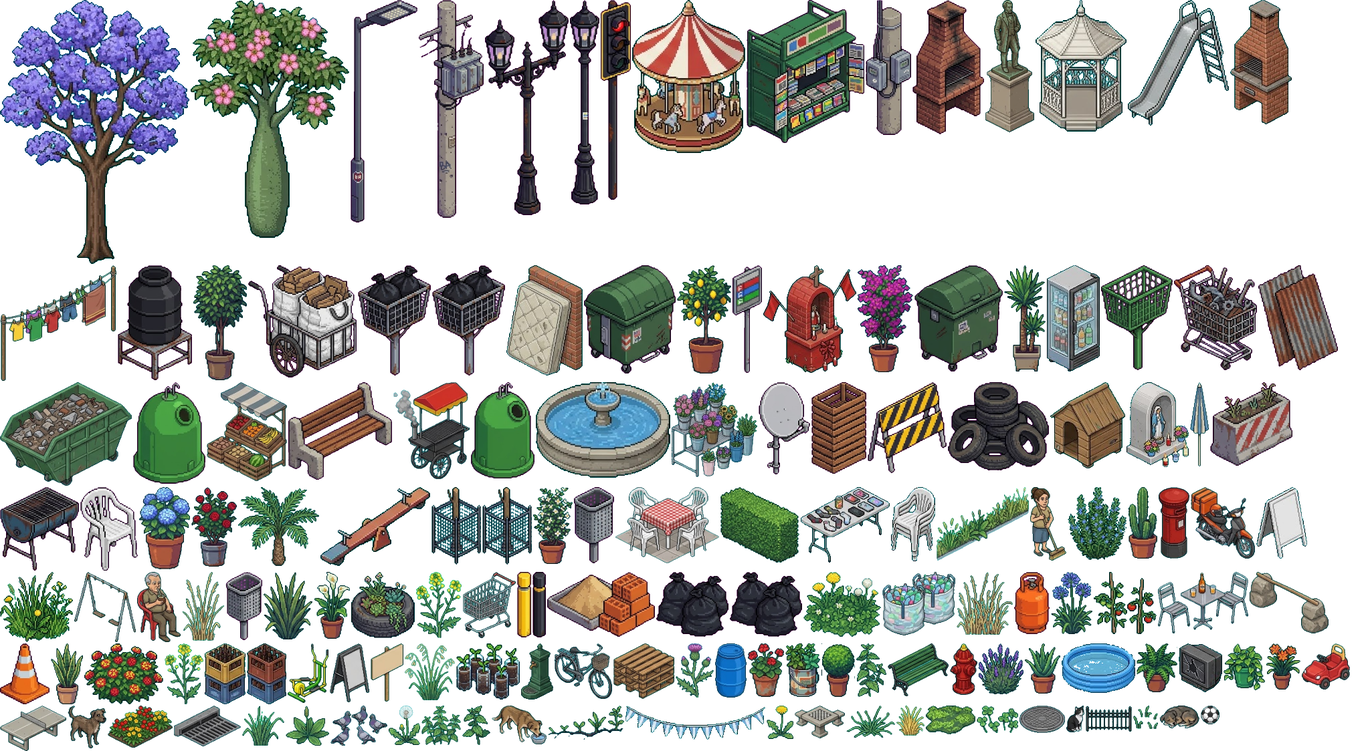
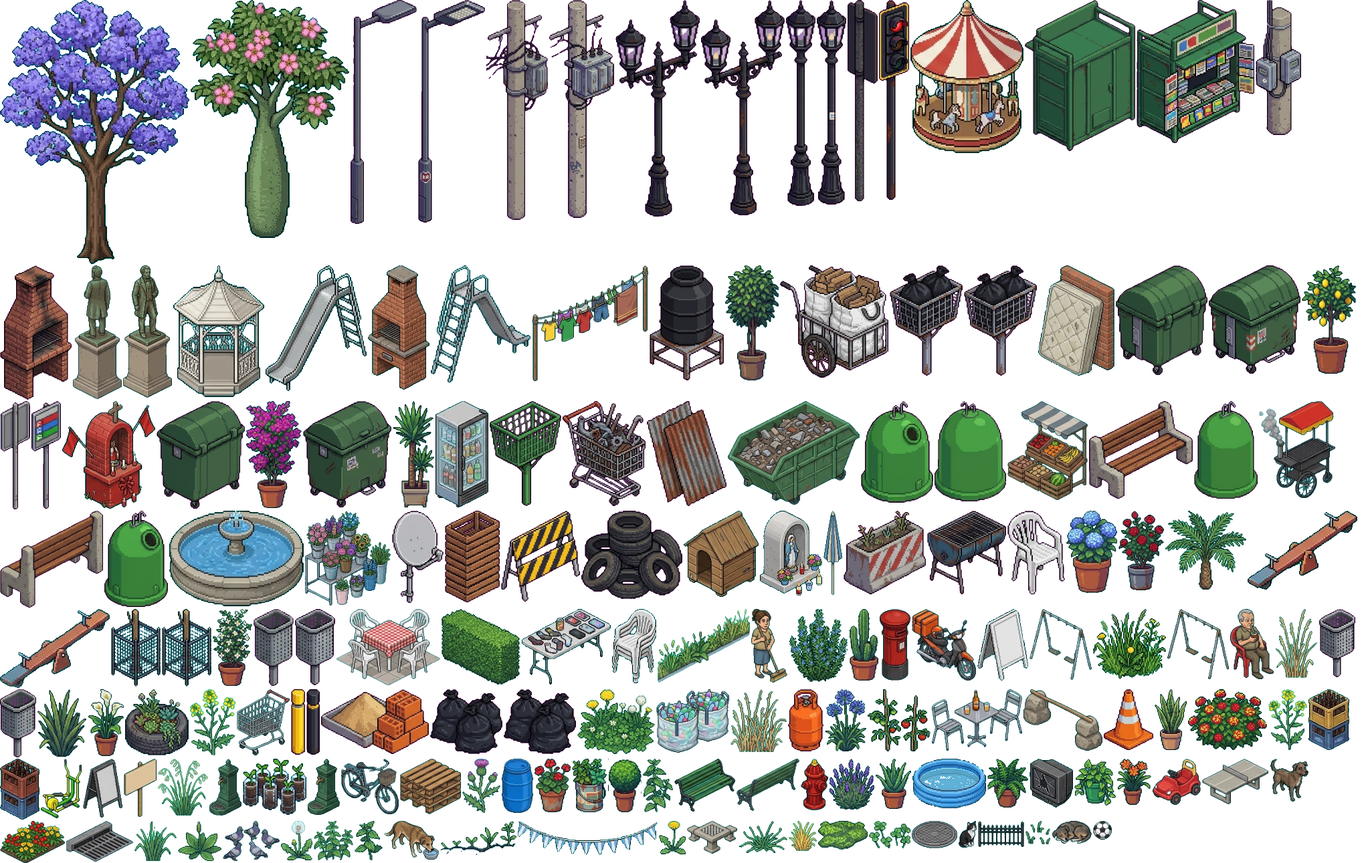
Vistas de atrás de Gemini: mobiliario, postes y plaza girados 180°
Gemini redibujó las tres hojas con cada objeto de espaldas (bancos,
contenedores, campanas, cestos, kiosco, parada, farolas, poste con
transformador, semáforo, monumento, hamacas, tobogán, subibaja, bebedero).
Se recortan y achican 2x como las de frente; hd.json las nombra <nombre>_atras.

Claude-Session: https://claude.ai/code/session_015eL21ADLwrYXVptdMb8b8s

diff --git a/editor/recursos/hd_props.js b/editor/recursos/hd_props.js
@@ -1,2 +1,2 @@
 // props HD (Gemini, limpiados a 30 px/m con herramientas/pixelar.py; armado con herramientas/armar_hd.py)
-const HD_ASSETS = {"escala": 0.6, "frames": {"antena": {"x": 1134, "y": 572, "w": 77, "h": 138, "ox": 38, "oy": 132, "e": 0.173}, "b_arco": {"x": 1868, "y": 856, "w": 118, "h": 92, "ox": 59, "oy": 87, "e": 0.3706}, "b_autito": {"x": 1946, "y": 963, "w": 72, "h": 69, "ox": 36, "oy": 64, "e": 0.3706}, "b_bolsones": {"x": 1319, "y": 856, "w": 109, "h": 95, "ox": 54, "oy": 90, "e": 0.3706}, "b_cartel_vende": {"x": 554, "y": 963, "w": 49, "h": 87, "ox": 24, "oy": 82, "e": 0.3706}, "b_chango_vacio": {"x": 692, "y": 856, "w": 79, "h": 99, "ox": 39, "oy": 94, "e": 0.3706}, "b_jaula": {"x": 721, "y": 729, "w": 74, "h": 116, "ox": 37, "oy": 107, "e": 0.2672}, "b_mesa_patio": {"x": 920, "y": 729, "w": 155, "h": 114, "ox": 77, "oy": 109, "e": 0.3706}, "b_mujer_barre": {"x": 1540, "y": 729, "w": 54, "h": 110, "ox": 27, "oy": 105, "e": 0.3706}, "b_pallets": {"x": 917, "y": 963, "w": 91, "h": 83, "ox": 45, "oy": 78, "e": 0.3706}, "b_pelota": {"x": 1795, "y": 1056, "w": 28, "h": 28, "ox": 14, "oy": 23, "e": 0.3706}, "b_perro_bebe": {"x": 735, "y": 1056, "w": 82, "h": 58, "ox": 41, "oy": 53, "e": 0.3706}, "b_sombrilla": {"x": 1779, "y": 572, "w": 28, "h": 126, "ox": 14, "oy": 121, "e": 0.3706}, "b_tacho_azul": {"x": 1069, "y": 963, "w": 47, "h": 81, "ox": 23, "oy": 76, "e": 0.3706}, "b_tendedero": {"x": 0, "y": 397, "w": 174, "h": 173, "ox": 87, "oy": 168, "e": 0.3706}, "b_viejo_mate": {"x": 205, "y": 856, "w": 65, "h": 105, "ox": 32, "oy": 100, "e": 0.3706}, "bolsas_0": {"x": 981, "y": 856, "w": 108, "h": 97, "ox": 54, "oy": 88, "e": 0.1635}, "bolsas_1": {"x": 1091, "y": 856, "w": 108, "h": 97, "ox": 54, "oy": 88, "e": 0.1635}, "c_bici": {"x": 829, "y": 963, "w": 86, "h": 83, "ox": 43, "oy": 79, "e": 0.4173}, "c_buzon": {"x": 1732, "y": 729, "w": 46, "h": 107, "ox": 23, "oy": 103, "e": 0.4173}, "c_chori": {"x": 588, "y": 572, "w": 114, "h": 145, "ox": 57, "oy": 141, "e": 0.4173}, "c_gato": {"x": 1594, "y": 1056, "w": 27, "h": 40, "ox": 13, "oy": 36, "e": 0.4173}, "c_hidrante": {"x": 1420, "y": 963, "w": 41, "h": 77, "ox": 20, "oy": 73, "e": 0.4173}, "c_mesa_bar": {"x": 1731, "y": 856, "w": 135, "h": 92, "ox": 67, "oy": 88, "e": 0.4173}, "c_moto": {"x": 1780, "y": 729, "w": 96, "h": 107, "ox": 48, "oy": 103, "e": 0.4173}, "c_palomas": {"x": 494, "y": 1056, "w": 85, "h": 60, "ox": 42, "oy": 56, "e": 0.4173}, "c_perro": {"x": 101, "y": 1056, "w": 58, "h": 64, "ox": 29, "oy": 60, "e": 0.4173}, "c_perro_duerme": {"x": 1733, "y": 1056, "w": 60, "h": 34, "ox": 30, "oy": 30, "e": 0.4173}, "c_puesto_flores": {"x": 1004, "y": 572, "w": 128, "h": 142, "ox": 64, "oy": 138, "e": 0.4173}, "c_puesto_frutas": {"x": 309, "y": 572, "w": 120, "h": 148, "ox": 60, "oy": 144, "e": 0.4173}, "c_rejilla": {"x": 260, "y": 1056, "w": 100, "h": 61, "ox": 50, "oy": 57, "e": 0.4173}, "c_tapa": {"x": 1524, "y": 1056, "w": 68, "h": 41, "ox": 34, "oy": 37, "e": 0.4173}, "c_volquete": {"x": 0, "y": 572, "w": 197, "h": 155, "ox": 98, "oy": 151, "e": 0.4173}, "cajones": {"x": 1213, "y": 572, "w": 82, "h": 137, "ox": 41, "oy": 126, "e": 0.173}, "canasto_0": {"x": 535, "y": 397, "w": 109, "h": 165, "ox": 54, "oy": 147, "e": 0.1635}, "canasto_1": {"x": 1646, "y": 397, "w": 107, "h": 157, "ox": 53, "oy": 139, "e": 0.1635}, "canasto_2": {"x": 646, "y": 397, "w": 109, "h": 165, "ox": 54, "oy": 147, "e": 0.1635}, "carro_cartonero": {"x": 371, "y": 397, "w": 162, "h": 168, "ox": 81, "oy": 159, "e": 0.173}, "chango": {"x": 1755, "y": 397, "w": 124, "h": 157, "ox": 62, "oy": 133, "e": 0.173}, "chapas": {"x": 1881, "y": 397, "w": 119, "h": 157, "ox": 59, "oy": 146, "e": 0.173}, "garrafa": {"x": 1516, "y": 856, "w": 53, "h": 93, "ox": 26, "oy": 84, "e": 0.173}, "gomas": {"x": 1417, "y": 572, "w": 151, "h": 132, "ox": 75, "oy": 105, "e": 0.173}, "k_banderines": {"x": 935, "y": 1056, "w": 209, "h": 51, "ox": 104, "oy": 46, "e": 0.3733}, "k_cajones_botellas": {"x": 306, "y": 963, "w": 61, "h": 91, "ox": 30, "oy": 86, "e": 0.3733}, "k_cajones_botellas_b": {"x": 369, "y": 963, "w": 59, "h": 91, "ox": 29, "oy": 86, "e": 0.3733}, "k_colchon": {"x": 757, "y": 397, "w": 114, "h": 165, "ox": 57, "oy": 160, "e": 0.3733}, "k_cucha": {"x": 1570, "y": 572, "w": 112, "h": 129, "ox": 56, "oy": 124, "e": 0.3733}, "k_gauchito": {"x": 1141, "y": 397, "w": 139, "h": 161, "ox": 69, "oy": 156, "e": 0.3733}, "k_heladera": {"x": 1565, "y": 397, "w": 79, "h": 159, "ox": 39, "oy": 154, "e": 0.3733}, "k_mantero": {"x": 1197, "y": 729, "w": 133, "h": 113, "ox": 66, "oy": 108, "e": 0.3733}, "k_pelopincho": {"x": 1587, "y": 963, "w": 110, "h": 74, "ox": 55, "oy": 69, "e": 0.3733}, "k_pizarra_helado": {"x": 1878, "y": 729, "w": 76, "h": 107, "ox": 38, "oy": 102, "e": 0.3733}, "k_sillas_pila": {"x": 1332, "y": 729, "w": 66, "h": 111, "ox": 33, "oy": 106, "e": 0.3733}, "k_tele": {"x": 1762, "y": 963, "w": 65, "h": 73, "ox": 32, "oy": 68, "e": 0.3733}, "k_virgen": {"x": 1684, "y": 572, "w": 93, "h": 127, "ox": 46, "oy": 122, "e": 0.3733}, "obra_material": {"x": 818, "y": 856, "w": 161, "h": 97, "ox": 80, "oy": 88, "e": 0.1635}, "parrilla": {"x": 1364, "y": 0, "w": 107, "h": 201, "ox": 53, "oy": 172, "e": 0.1635}, "parrilla_b": {"x": 1839, "y": 0, "w": 92, "h": 186, "ox": 46, "oy": 181, "e": 0.3733}, "parrilla_tambor": {"x": 0, "y": 729, "w": 118, "h": 125, "ox": 59, "oy": 108, "e": 0.173}, "pizarra_0": {"x": 493, "y": 963, "w": 59, "h": 88, "ox": 29, "oy": 83, "e": 0.3706}, "pl_aloe": {"x": 1532, "y": 963, "w": 53, "h": 75, "ox": 26, "oy": 67, "e": 0.184}, "pl_balde": {"x": 1174, "y": 963, "w": 52, "h": 80, "ox": 26, "oy": 72, "e": 0.184}, "pl_boj": {"x": 1228, "y": 963, "w": 50, "h": 80, "ox": 25, "oy": 72, "e": 0.184}, "pl_botellas": {"x": 682, "y": 963, "w": 95, "h": 84, "ox": 47, "oy": 67, "e": 0.1134}, "pl_cactus": {"x": 1686, "y": 729, "w": 44, "h": 107, "ox": 22, "oy": 99, "e": 0.184}, "pl_calas": {"x": 469, "y": 856, "w": 54, "h": 100, "ox": 27, "oy": 92, "e": 0.184}, "pl_clivia": {"x": 1893, "y": 963, "w": 51, "h": 69, "ox": 25, "oy": 61, "e": 0.184}, "pl_cubierta": {"x": 525, "y": 856, "w": 95, "h": 99, "ox": 47, "oy": 76, "e": 0.1431}, "pl_ficus": {"x": 289, "y": 397, "w": 80, "h": 172, "ox": 40, "oy": 164, "e": 0.184}, "pl_helecho": {"x": 1699, "y": 963, "w": 61, "h": 73, "ox": 30, "oy": 65, "e": 0.184}, "pl_hortensia": {"x": 208, "y": 729, "w": 76, "h": 123, "ox": 38, "oy": 115, "e": 0.184}, "pl_jaula": {"x": 645, "y": 729, "w": 74, "h": 116, "ox": 37, "oy": 107, "e": 0.2672}, "pl_lavanda": {"x": 1463, "y": 963, "w": 67, "h": 76, "ox": 33, "oy": 68, "e": 0.184}, "pl_ligustrina": {"x": 1077, "y": 729, "w": 118, "h": 113, "ox": 59, "oy": 106, "e": 0.2441}, "pl_limonero": {"x": 1012, "y": 397, "w": 81, "h": 162, "ox": 40, "oy": 154, "e": 0.184}, "pl_malvon": {"x": 1118, "y": 963, "w": 54, "h": 80, "ox": 27, "oy": 72, "e": 0.184}, "pl_potus": {"x": 1829, "y": 963, "w": 62, "h": 70, "ox": 31, "oy": 62, "e": 0.184}, "pl_sansevieria": {"x": 76, "y": 963, "w": 48, "h": 91, "ox": 24, "oy": 83, "e": 0.184}, "pl_trebol": {"x": 1201, "y": 856, "w": 116, "h": 97, "ox": 58, "oy": 85, "e": 0.1247}, "plm_agapanto": {"x": 1571, "y": 856, "w": 62, "h": 93, "ox": 31, "oy": 85, "e": 0.184}, "plm_formio": {"x": 394, "y": 856, "w": 73, "h": 101, "ox": 36, "oy": 93, "e": 0.184}, "plm_jazmin": {"x": 797, "y": 729, "w": 59, "h": 115, "ox": 29, "oy": 107, "e": 0.184}, "plm_lantana": {"x": 126, "y": 963, "w": 118, "h": 91, "ox": 59, "oy": 73, "e": 0.1891}, "plm_pindo": {"x": 356, "y": 729, "w": 121, "h": 118, "ox": 60, "oy": 103, "e": 0.3821}, "plm_romero": {"x": 1596, "y": 729, "w": 88, "h": 109, "ox": 44, "oy": 93, "e": 0.1783}, "plm_rosal": {"x": 286, "y": 729, "w": 68, "h": 119, "ox": 34, "oy": 111, "e": 0.184}, "plm_santarita": {"x": 1282, "y": 397, "w": 83, "h": 160, "ox": 41, "oy": 152, "e": 0.184}, "plm_tomates": {"x": 1635, "y": 856, "w": 94, "h": 93, "ox": 47, "oy": 83, "e": 0.1895}, "plm_yuca": {"x": 1501, "y": 397, "w": 62, "h": 159, "ox": 31, "oy": 151, "e": 0.184}, "plm_yuyos": {"x": 0, "y": 856, "w": 109, "h": 105, "ox": 54, "oy": 89, "e": 0.1776}, "pz_ajedrez": {"x": 1188, "y": 1056, "w": 75, "h": 49, "ox": 37, "oy": 45, "e": 0.4349}, "pz_aparato": {"x": 430, "y": 963, "w": 61, "h": 89, "ox": 30, "oy": 76, "e": 0.3835}, "pz_banco": {"x": 1327, "y": 963, "w": 91, "h": 79, "ox": 45, "oy": 74, "e": 0.358}, "pz_bebedero": {"x": 779, "y": 963, "w": 48, "h": 84, "ox": 24, "oy": 76, "e": 0.247}, "pz_calesita": {"x": 945, "y": 0, "w": 169, "h": 229, "ox": 84, "oy": 225, "e": 0.4793}, "pz_cantero": {"x": 161, "y": 1056, "w": 97, "h": 63, "ox": 48, "oy": 59, "e": 0.4663}, "pz_fuente": {"x": 801, "y": 572, "w": 201, "h": 143, "ox": 100, "oy": 139, "e": 0.403}, "pz_glorieta": {"x": 1548, "y": 0, "w": 136, "h": 197, "ox": 68, "oy": 193, "e": 0.4633}, "pz_hamacas": {"x": 111, "y": 856, "w": 92, "h": 105, "ox": 46, "oy": 90, "e": 0.4872}, "pz_jacaranda": {"x": 0, "y": 0, "w": 283, "h": 395, "ox": 141, "oy": 369, "e": 0.3613}, "pz_monumento": {"x": 1473, "y": 0, "w": 73, "h": 198, "ox": 36, "oy": 184, "e": 0.5012}, "pz_palo_borracho": {"x": 285, "y": 0, "w": 237, "h": 356, "ox": 118, "oy": 331, "e": 0.379}, "pz_pingpong": {"x": 0, "y": 1056, "w": 99, "h": 68, "ox": 49, "oy": 64, "e": 0.4934}, "pz_reja": {"x": 1623, "y": 1056, "w": 69, "h": 39, "ox": 34, "oy": 35, "e": 0.5218}, "pz_subibaja": {"x": 479, "y": 729, "w": 164, "h": 118, "ox": 82, "oy": 113, "e": 0.3293}, "pz_tobogan": {"x": 1686, "y": 0, "w": 151, "h": 188, "ox": 75, "oy": 183, "e": 0.3576}, "silla": {"x": 120, "y": 729, "w": 86, "h": 125, "ox": 43, "oy": 111, "e": 0.173}, "u_banco": {"x": 431, "y": 572, "w": 155, "h": 146, "ox": 77, "oy": 139, "e": 0.2304}, "u_bolardo_amarillo": {"x": 773, "y": 856, "w": 21, "h": 98, "ox": 10, "oy": 91, "e": 0.1635}, "u_bolardo_negro": {"x": 796, "y": 856, "w": 20, "h": 98, "ox": 10, "oy": 91, "e": 0.1635}, "u_campana": {"x": 199, "y": 572, "w": 108, "h": 152, "ox": 54, "oy": 126, "e": 0.2304}, "u_campana_b": {"x": 704, "y": 572, "w": 95, "h": 144, "ox": 47, "oy": 118, "e": 0.2304}, "u_cesto": {"x": 337, "y": 856, "w": 55, "h": 102, "ox": 27, "oy": 93, "e": 0.2304}, "u_cesto_b": {"x": 858, "y": 729, "w": 60, "h": 114, "ox": 30, "oy": 105, "e": 0.2304}, "u_cono": {"x": 0, "y": 963, "w": 74, "h": 91, "ox": 37, "oy": 79, "e": 0.1635}, "u_contenedor": {"x": 873, "y": 397, "w": 137, "h": 162, "ox": 68, "oy": 138, "e": 0.2304}, "u_contenedor_b": {"x": 1367, "y": 397, "w": 132, "h": 159, "ox": 66, "oy": 135, "e": 0.2304}, "u_farol_doble": {"x": 725, "y": 0, "w": 125, "h": 322, "ox": 62, "oy": 315, "e": 0.223}, "u_farola": {"x": 524, "y": 0, "w": 100, "h": 333, "ox": 50, "oy": 329, "e": 0.4219}, "u_farola_orn": {"x": 852, "y": 0, "w": 44, "h": 306, "ox": 22, "oy": 298, "e": 0.2041}, "u_kiosco": {"x": 1116, "y": 0, "w": 176, "h": 214, "ox": 88, "oy": 182, "e": 0.2304}, "u_macetero": {"x": 1809, "y": 572, "w": 123, "h": 125, "ox": 61, "oy": 102, "e": 0.1635}, "u_parada": {"x": 1095, "y": 397, "w": 44, "h": 161, "ox": 22, "oy": 158, "e": 0.2304}, "u_poste_trafo": {"x": 626, "y": 0, "w": 97, "h": 326, "ox": 48, "oy": 321, "e": 0.364}, "u_semaforo": {"x": 898, "y": 0, "w": 45, "h": 299, "ox": 22, "oy": 291, "e": 0.188}, "u_tablero": {"x": 1294, "y": 0, "w": 68, "h": 202, "ox": 34, "oy": 190, "e": 0.1635}, "u_tanque": {"x": 176, "y": 397, "w": 111, "h": 172, "ox": 55, "oy": 145, "e": 0.173}, "u_valla": {"x": 1297, "y": 572, "w": 118, "h": 136, "ox": 59, "oy": 118, "e": 0.1635}, "yy_avena": {"x": 605, "y": 963, "w": 75, "h": 85, "ox": 37, "oy": 78, "e": 0.2255}, "yy_brotes": {"x": 1694, "y": 1056, "w": 37, "h": 35, "ox": 18, "oy": 28, "e": 0.2255}, "yy_cardo": {"x": 1010, "y": 963, "w": 57, "h": 81, "ox": 28, "oy": 74, "e": 0.2255}, "yy_cola_zorro": {"x": 362, "y": 1056, "w": 63, "h": 60, "ox": 31, "oy": 53, "e": 0.2255}, "yy_cordon": {"x": 1400, "y": 729, "w": 138, "h": 110, "ox": 69, "oy": 103, "e": 0.2087}, "yy_diente_leon": {"x": 1146, "y": 1056, "w": 40, "h": 50, "ox": 20, "oy": 43, "e": 0.2255}, "yy_diente_leon_b": {"x": 581, "y": 1056, "w": 47, "h": 59, "ox": 23, "oy": 52, "e": 0.2255}, "yy_gramilla": {"x": 1265, "y": 1056, "w": 73, "h": 48, "ox": 36, "oy": 41, "e": 0.2255}, "yy_grieta": {"x": 819, "y": 1056, "w": 114, "h": 51, "ox": 57, "oy": 38, "e": 0.111}, "yy_llanten": {"x": 427, "y": 1056, "w": 65, "h": 60, "ox": 32, "oy": 53, "e": 0.2255}, "yy_mostacilla": {"x": 622, "y": 856, "w": 68, "h": 99, "ox": 34, "oy": 92, "e": 0.2255}, "yy_mostacilla_b": {"x": 246, "y": 963, "w": 58, "h": 91, "ox": 29, "oy": 84, "e": 0.2255}, "yy_musgo": {"x": 1384, "y": 1056, "w": 74, "h": 43, "ox": 37, "oy": 36, "e": 0.2255}, "yy_ortiga": {"x": 630, "y": 1056, "w": 59, "h": 59, "ox": 29, "oy": 52, "e": 0.2255}, "yy_ortiga_b": {"x": 691, "y": 1056, "w": 42, "h": 59, "ox": 21, "oy": 52, "e": 0.2255}, "yy_ortiga_c": {"x": 1280, "y": 963, "w": 45, "h": 80, "ox": 22, "oy": 73, "e": 0.2255}, "yy_pasto_seco": {"x": 1340, "y": 1056, "w": 42, "h": 45, "ox": 21, "oy": 38, "e": 0.2255}, "yy_seco_alto": {"x": 1430, "y": 856, "w": 84, "h": 94, "ox": 42, "oy": 87, "e": 0.2255}, "yy_seco_alto_b": {"x": 272, "y": 856, "w": 63, "h": 103, "ox": 31, "oy": 96, "e": 0.2255}, "yy_trebol": {"x": 1460, "y": 1056, "w": 62, "h": 41, "ox": 31, "oy": 34, "e": 0.2255}}};
+const HD_ASSETS = {"escala": 0.6, "frames": {"antena": {"x": 586, "y": 764, "w": 77, "h": 138, "ox": 38, "oy": 132, "e": 0.173}, "b_arco": {"x": 1530, "y": 1031, "w": 118, "h": 92, "ox": 59, "oy": 87, "e": 0.3706}, "b_autito": {"x": 1723, "y": 1135, "w": 72, "h": 69, "ox": 36, "oy": 64, "e": 0.3706}, "b_bolsones": {"x": 981, "y": 1031, "w": 109, "h": 95, "ox": 54, "oy": 90, "e": 0.3706}, "b_cartel_vende": {"x": 185, "y": 1135, "w": 49, "h": 87, "ox": 24, "oy": 82, "e": 0.3706}, "b_chango_vacio": {"x": 354, "y": 1031, "w": 79, "h": 99, "ox": 39, "oy": 94, "e": 0.3706}, "b_jaula": {"x": 242, "y": 911, "w": 74, "h": 116, "ox": 37, "oy": 107, "e": 0.2672}, "b_mesa_patio": {"x": 503, "y": 911, "w": 155, "h": 114, "ox": 77, "oy": 109, "e": 0.3706}, "b_mujer_barre": {"x": 1123, "y": 911, "w": 54, "h": 110, "ox": 27, "oy": 105, "e": 0.3706}, "b_pallets": {"x": 598, "y": 1135, "w": 91, "h": 83, "ox": 45, "oy": 78, "e": 0.3706}, "b_pelota": {"x": 1634, "y": 1228, "w": 28, "h": 28, "ox": 14, "oy": 23, "e": 0.3706}, "b_perro_bebe": {"x": 574, "y": 1228, "w": 82, "h": 58, "ox": 41, "oy": 53, "e": 0.3706}, "b_sombrilla": {"x": 1231, "y": 764, "w": 28, "h": 126, "ox": 14, "oy": 121, "e": 0.3706}, "b_tacho_azul": {"x": 750, "y": 1135, "w": 47, "h": 81, "ox": 23, "oy": 76, "e": 0.3706}, "b_tendedero": {"x": 795, "y": 397, "w": 174, "h": 173, "ox": 87, "oy": 168, "e": 0.3706}, "b_viejo_mate": {"x": 1839, "y": 911, "w": 65, "h": 105, "ox": 32, "oy": 100, "e": 0.3706}, "bolsas_0": {"x": 643, "y": 1031, "w": 108, "h": 97, "ox": 54, "oy": 88, "e": 0.1635}, "bolsas_1": {"x": 753, "y": 1031, "w": 108, "h": 97, "ox": 54, "oy": 88, "e": 0.1635}, "c_bici": {"x": 510, "y": 1135, "w": 86, "h": 83, "ox": 43, "oy": 79, "e": 0.4173}, "c_buzon": {"x": 1315, "y": 911, "w": 46, "h": 107, "ox": 23, "oy": 103, "e": 0.4173}, "c_chori": {"x": 1882, "y": 600, "w": 114, "h": 145, "ox": 57, "oy": 141, "e": 0.4173}, "c_gato": {"x": 1433, "y": 1228, "w": 27, "h": 40, "ox": 13, "oy": 36, "e": 0.4173}, "c_hidrante": {"x": 1197, "y": 1135, "w": 41, "h": 77, "ox": 20, "oy": 73, "e": 0.4173}, "c_mesa_bar": {"x": 1393, "y": 1031, "w": 135, "h": 92, "ox": 67, "oy": 88, "e": 0.4173}, "c_moto": {"x": 1363, "y": 911, "w": 96, "h": 107, "ox": 48, "oy": 103, "e": 0.4173}, "c_palomas": {"x": 333, "y": 1228, "w": 85, "h": 60, "ox": 42, "oy": 56, "e": 0.4173}, "c_perro": {"x": 1898, "y": 1135, "w": 58, "h": 64, "ox": 29, "oy": 60, "e": 0.4173}, "c_perro_duerme": {"x": 1572, "y": 1228, "w": 60, "h": 34, "ox": 30, "oy": 30, "e": 0.4173}, "c_puesto_flores": {"x": 456, "y": 764, "w": 128, "h": 142, "ox": 64, "oy": 138, "e": 0.4173}, "c_puesto_frutas": {"x": 1506, "y": 600, "w": 120, "h": 148, "ox": 60, "oy": 144, "e": 0.4173}, "c_rejilla": {"x": 99, "y": 1228, "w": 100, "h": 61, "ox": 50, "oy": 57, "e": 0.4173}, "c_tapa": {"x": 1363, "y": 1228, "w": 68, "h": 41, "ox": 34, "oy": 37, "e": 0.4173}, "c_volquete": {"x": 1088, "y": 600, "w": 197, "h": 155, "ox": 98, "oy": 151, "e": 0.4173}, "cajones": {"x": 665, "y": 764, "w": 82, "h": 137, "ox": 41, "oy": 126, "e": 0.173}, "canasto_0": {"x": 1330, "y": 397, "w": 109, "h": 165, "ox": 54, "oy": 147, "e": 0.1635}, "canasto_1": {"x": 732, "y": 600, "w": 107, "h": 157, "ox": 53, "oy": 139, "e": 0.1635}, "canasto_2": {"x": 1441, "y": 397, "w": 109, "h": 165, "ox": 54, "oy": 147, "e": 0.1635}, "carro_cartonero": {"x": 1166, "y": 397, "w": 162, "h": 168, "ox": 81, "oy": 159, "e": 0.173}, "chango": {"x": 841, "y": 600, "w": 124, "h": 157, "ox": 62, "oy": 133, "e": 0.173}, "chapas": {"x": 967, "y": 600, "w": 119, "h": 157, "ox": 59, "oy": 146, "e": 0.173}, "garrafa": {"x": 1178, "y": 1031, "w": 53, "h": 93, "ox": 26, "oy": 84, "e": 0.173}, "gomas": {"x": 869, "y": 764, "w": 151, "h": 132, "ox": 75, "oy": 105, "e": 0.173}, "k_banderines": {"x": 774, "y": 1228, "w": 209, "h": 51, "ox": 104, "oy": 46, "e": 0.3733}, "k_cajones_botellas": {"x": 1956, "y": 1031, "w": 61, "h": 91, "ox": 30, "oy": 86, "e": 0.3733}, "k_cajones_botellas_b": {"x": 0, "y": 1135, "w": 59, "h": 91, "ox": 29, "oy": 86, "e": 0.3733}, "k_colchon": {"x": 1552, "y": 397, "w": 114, "h": 165, "ox": 57, "oy": 160, "e": 0.3733}, "k_cucha": {"x": 1022, "y": 764, "w": 112, "h": 129, "ox": 56, "oy": 124, "e": 0.3733}, "k_gauchito": {"x": 93, "y": 600, "w": 139, "h": 161, "ox": 69, "oy": 156, "e": 0.3733}, "k_heladera": {"x": 651, "y": 600, "w": 79, "h": 159, "ox": 39, "oy": 154, "e": 0.3733}, "k_mantero": {"x": 780, "y": 911, "w": 133, "h": 113, "ox": 66, "oy": 108, "e": 0.3733}, "k_pelopincho": {"x": 1364, "y": 1135, "w": 110, "h": 74, "ox": 55, "oy": 69, "e": 0.3733}, "k_pizarra_helado": {"x": 1461, "y": 911, "w": 76, "h": 107, "ox": 38, "oy": 102, "e": 0.3733}, "k_sillas_pila": {"x": 915, "y": 911, "w": 66, "h": 111, "ox": 33, "oy": 106, "e": 0.3733}, "k_tele": {"x": 1539, "y": 1135, "w": 65, "h": 73, "ox": 32, "oy": 68, "e": 0.3733}, "k_virgen": {"x": 1136, "y": 764, "w": 93, "h": 127, "ox": 46, "oy": 122, "e": 0.3733}, "obra_material": {"x": 480, "y": 1031, "w": 161, "h": 97, "ox": 80, "oy": 88, "e": 0.1635}, "parrilla": {"x": 0, "y": 397, "w": 107, "h": 201, "ox": 53, "oy": 172, "e": 0.1635}, "parrilla_b": {"x": 550, "y": 397, "w": 92, "h": 186, "ox": 46, "oy": 181, "e": 0.3733}, "parrilla_tambor": {"x": 1386, "y": 764, "w": 118, "h": 125, "ox": 59, "oy": 108, "e": 0.173}, "pizarra_0": {"x": 124, "y": 1135, "w": 59, "h": 88, "ox": 29, "oy": 83, "e": 0.3706}, "pl_aloe": {"x": 1309, "y": 1135, "w": 53, "h": 75, "ox": 26, "oy": 67, "e": 0.184}, "pl_balde": {"x": 855, "y": 1135, "w": 52, "h": 80, "ox": 26, "oy": 72, "e": 0.184}, "pl_boj": {"x": 909, "y": 1135, "w": 50, "h": 80, "ox": 25, "oy": 72, "e": 0.184}, "pl_botellas": {"x": 363, "y": 1135, "w": 95, "h": 84, "ox": 47, "oy": 67, "e": 0.1134}, "pl_cactus": {"x": 1269, "y": 911, "w": 44, "h": 107, "ox": 22, "oy": 99, "e": 0.184}, "pl_calas": {"x": 131, "y": 1031, "w": 54, "h": 100, "ox": 27, "oy": 92, "e": 0.184}, "pl_clivia": {"x": 1670, "y": 1135, "w": 51, "h": 69, "ox": 25, "oy": 61, "e": 0.184}, "pl_cubierta": {"x": 187, "y": 1031, "w": 95, "h": 99, "ox": 47, "oy": 76, "e": 0.1431}, "pl_ficus": {"x": 1084, "y": 397, "w": 80, "h": 172, "ox": 40, "oy": 164, "e": 0.184}, "pl_helecho": {"x": 1476, "y": 1135, "w": 61, "h": 73, "ox": 30, "oy": 65, "e": 0.184}, "pl_hortensia": {"x": 1594, "y": 764, "w": 76, "h": 123, "ox": 38, "oy": 115, "e": 0.184}, "pl_jaula": {"x": 166, "y": 911, "w": 74, "h": 116, "ox": 37, "oy": 107, "e": 0.2672}, "pl_lavanda": {"x": 1240, "y": 1135, "w": 67, "h": 76, "ox": 33, "oy": 68, "e": 0.184}, "pl_ligustrina": {"x": 660, "y": 911, "w": 118, "h": 113, "ox": 59, "oy": 106, "e": 0.2441}, "pl_limonero": {"x": 1946, "y": 397, "w": 81, "h": 162, "ox": 40, "oy": 154, "e": 0.184}, "pl_malvon": {"x": 799, "y": 1135, "w": 54, "h": 80, "ox": 27, "oy": 72, "e": 0.184}, "pl_potus": {"x": 1606, "y": 1135, "w": 62, "h": 70, "ox": 31, "oy": 62, "e": 0.184}, "pl_sansevieria": {"x": 1726, "y": 1031, "w": 48, "h": 91, "ox": 24, "oy": 83, "e": 0.184}, "pl_trebol": {"x": 863, "y": 1031, "w": 116, "h": 97, "ox": 58, "oy": 85, "e": 0.1247}, "plm_agapanto": {"x": 1233, "y": 1031, "w": 62, "h": 93, "ox": 31, "oy": 85, "e": 0.184}, "plm_formio": {"x": 56, "y": 1031, "w": 73, "h": 101, "ox": 36, "oy": 93, "e": 0.184}, "plm_jazmin": {"x": 318, "y": 911, "w": 59, "h": 115, "ox": 29, "oy": 107, "e": 0.184}, "plm_lantana": {"x": 1776, "y": 1031, "w": 118, "h": 91, "ox": 59, "oy": 73, "e": 0.1891}, "plm_pindo": {"x": 1742, "y": 764, "w": 121, "h": 118, "ox": 60, "oy": 103, "e": 0.3821}, "plm_romero": {"x": 1179, "y": 911, "w": 88, "h": 109, "ox": 44, "oy": 93, "e": 0.1783}, "plm_rosal": {"x": 1672, "y": 764, "w": 68, "h": 119, "ox": 34, "oy": 111, "e": 0.184}, "plm_santarita": {"x": 368, "y": 600, "w": 83, "h": 160, "ox": 41, "oy": 152, "e": 0.184}, "plm_tomates": {"x": 1297, "y": 1031, "w": 94, "h": 93, "ox": 47, "oy": 83, "e": 0.1895}, "plm_yuca": {"x": 587, "y": 600, "w": 62, "h": 159, "ox": 31, "oy": 151, "e": 0.184}, "plm_yuyos": {"x": 1634, "y": 911, "w": 109, "h": 105, "ox": 54, "oy": 89, "e": 0.1776}, "pz_ajedrez": {"x": 1027, "y": 1228, "w": 75, "h": 49, "ox": 37, "oy": 45, "e": 0.4349}, "pz_aparato": {"x": 61, "y": 1135, "w": 61, "h": 89, "ox": 30, "oy": 76, "e": 0.3835}, "pz_banco": {"x": 1008, "y": 1135, "w": 91, "h": 79, "ox": 45, "oy": 74, "e": 0.358}, "pz_banco_atras": {"x": 1101, "y": 1135, "w": 94, "h": 78, "ox": 47, "oy": 73, "e": 0.3465}, "pz_bebedero": {"x": 460, "y": 1135, "w": 48, "h": 84, "ox": 24, "oy": 76, "e": 0.247}, "pz_bebedero_atras": {"x": 313, "y": 1135, "w": 48, "h": 85, "ox": 24, "oy": 77, "e": 0.2455}, "pz_calesita": {"x": 1361, "y": 0, "w": 169, "h": 229, "ox": 84, "oy": 225, "e": 0.4793}, "pz_cantero": {"x": 0, "y": 1228, "w": 97, "h": 63, "ox": 48, "oy": 59, "e": 0.4663}, "pz_fuente": {"x": 253, "y": 764, "w": 201, "h": 143, "ox": 100, "oy": 139, "e": 0.403}, "pz_glorieta": {"x": 259, "y": 397, "w": 136, "h": 197, "ox": 68, "oy": 193, "e": 0.4633}, "pz_hamacas": {"x": 1745, "y": 911, "w": 92, "h": 105, "ox": 46, "oy": 90, "e": 0.4872}, "pz_hamacas_atras": {"x": 1539, "y": 911, "w": 93, "h": 106, "ox": 46, "oy": 91, "e": 0.4826}, "pz_jacaranda": {"x": 0, "y": 0, "w": 283, "h": 395, "ox": 141, "oy": 369, "e": 0.3613}, "pz_monumento": {"x": 184, "y": 397, "w": 73, "h": 198, "ox": 36, "oy": 184, "e": 0.5012}, "pz_monumento_atras": {"x": 109, "y": 397, "w": 73, "h": 200, "ox": 36, "oy": 185, "e": 0.4962}, "pz_palo_borracho": {"x": 285, "y": 0, "w": 237, "h": 356, "ox": 118, "oy": 331, "e": 0.379}, "pz_pingpong": {"x": 1797, "y": 1135, "w": 99, "h": 68, "ox": 49, "oy": 64, "e": 0.4934}, "pz_reja": {"x": 1462, "y": 1228, "w": 69, "h": 39, "ox": 34, "oy": 35, "e": 0.5218}, "pz_subibaja": {"x": 1865, "y": 764, "w": 164, "h": 118, "ox": 82, "oy": 113, "e": 0.3293}, "pz_subibaja_atras": {"x": 0, "y": 911, "w": 164, "h": 118, "ox": 82, "oy": 113, "e": 0.3293}, "pz_tobogan": {"x": 397, "y": 397, "w": 151, "h": 188, "ox": 75, "oy": 183, "e": 0.3576}, "pz_tobogan_atras": {"x": 644, "y": 397, "w": 149, "h": 176, "ox": 74, "oy": 171, "e": 0.3624}, "silla": {"x": 1506, "y": 764, "w": 86, "h": 125, "ox": 43, "oy": 111, "e": 0.173}, "u_banco": {"x": 1628, "y": 600, "w": 155, "h": 146, "ox": 77, "oy": 139, "e": 0.2304}, "u_banco_atras": {"x": 0, "y": 764, "w": 154, "h": 145, "ox": 77, "oy": 138, "e": 0.2275}, "u_bolardo_amarillo": {"x": 435, "y": 1031, "w": 21, "h": 98, "ox": 10, "oy": 91, "e": 0.1635}, "u_bolardo_negro": {"x": 458, "y": 1031, "w": 20, "h": 98, "ox": 10, "oy": 91, "e": 0.1635}, "u_campana": {"x": 1287, "y": 600, "w": 108, "h": 152, "ox": 54, "oy": 126, "e": 0.2304}, "u_campana_atras": {"x": 1397, "y": 600, "w": 107, "h": 150, "ox": 53, "oy": 123, "e": 0.2275}, "u_campana_b": {"x": 156, "y": 764, "w": 95, "h": 144, "ox": 47, "oy": 118, "e": 0.2304}, "u_campana_b_atras": {"x": 1785, "y": 600, "w": 95, "h": 146, "ox": 47, "oy": 119, "e": 0.2275}, "u_cesto": {"x": 1971, "y": 911, "w": 55, "h": 102, "ox": 27, "oy": 93, "e": 0.2304}, "u_cesto_atras": {"x": 0, "y": 1031, "w": 54, "h": 102, "ox": 27, "oy": 93, "e": 0.2275}, "u_cesto_b": {"x": 441, "y": 911, "w": 60, "h": 114, "ox": 30, "oy": 105, "e": 0.2304}, "u_cesto_b_atras": {"x": 379, "y": 911, "w": 60, "h": 115, "ox": 30, "oy": 106, "e": 0.2275}, "u_cono": {"x": 1650, "y": 1031, "w": 74, "h": 91, "ox": 37, "oy": 79, "e": 0.1635}, "u_contenedor": {"x": 1807, "y": 397, "w": 137, "h": 162, "ox": 68, "oy": 138, "e": 0.2304}, "u_contenedor_atras": {"x": 1668, "y": 397, "w": 137, "h": 164, "ox": 68, "oy": 139, "e": 0.2275}, "u_contenedor_b": {"x": 453, "y": 600, "w": 132, "h": 159, "ox": 66, "oy": 135, "e": 0.2304}, "u_contenedor_b_atras": {"x": 234, "y": 600, "w": 132, "h": 161, "ox": 66, "oy": 136, "e": 0.2275}, "u_farol_doble": {"x": 1048, "y": 0, "w": 125, "h": 322, "ox": 62, "oy": 315, "e": 0.223}, "u_farol_doble_atras": {"x": 920, "y": 0, "w": 126, "h": 324, "ox": 63, "oy": 317, "e": 0.2216}, "u_farola": {"x": 625, "y": 0, "w": 100, "h": 333, "ox": 50, "oy": 329, "e": 0.4219}, "u_farola_atras": {"x": 524, "y": 0, "w": 99, "h": 335, "ox": 49, "oy": 331, "e": 0.4188}, "u_farola_orn": {"x": 1221, "y": 0, "w": 44, "h": 306, "ox": 22, "oy": 298, "e": 0.2041}, "u_farola_orn_atras": {"x": 1175, "y": 0, "w": 44, "h": 308, "ox": 22, "oy": 300, "e": 0.2028}, "u_kiosco": {"x": 1699, "y": 0, "w": 176, "h": 214, "ox": 88, "oy": 182, "e": 0.2304}, "u_kiosco_atras": {"x": 1532, "y": 0, "w": 165, "h": 226, "ox": 82, "oy": 193, "e": 0.2275}, "u_macetero": {"x": 1261, "y": 764, "w": 123, "h": 125, "ox": 61, "oy": 102, "e": 0.1635}, "u_parada": {"x": 47, "y": 600, "w": 44, "h": 161, "ox": 22, "oy": 158, "e": 0.2304}, "u_parada_atras": {"x": 0, "y": 600, "w": 45, "h": 162, "ox": 22, "oy": 159, "e": 0.2275}, "u_poste_trafo": {"x": 821, "y": 0, "w": 97, "h": 326, "ox": 48, "oy": 321, "e": 0.364}, "u_poste_trafo_atras": {"x": 727, "y": 0, "w": 92, "h": 329, "ox": 46, "oy": 324, "e": 0.3607}, "u_semaforo": {"x": 1314, "y": 0, "w": 45, "h": 299, "ox": 22, "oy": 291, "e": 0.188}, "u_semaforo_atras": {"x": 1267, "y": 0, "w": 45, "h": 301, "ox": 22, "oy": 293, "e": 0.1864}, "u_tablero": {"x": 1877, "y": 0, "w": 68, "h": 202, "ox": 34, "oy": 190, "e": 0.1635}, "u_tanque": {"x": 971, "y": 397, "w": 111, "h": 172, "ox": 55, "oy": 145, "e": 0.173}, "u_valla": {"x": 749, "y": 764, "w": 118, "h": 136, "ox": 59, "oy": 118, "e": 0.1635}, "yy_avena": {"x": 236, "y": 1135, "w": 75, "h": 85, "ox": 37, "oy": 78, "e": 0.2255}, "yy_brotes": {"x": 1533, "y": 1228, "w": 37, "h": 35, "ox": 18, "oy": 28, "e": 0.2255}, "yy_cardo": {"x": 691, "y": 1135, "w": 57, "h": 81, "ox": 28, "oy": 74, "e": 0.2255}, "yy_cola_zorro": {"x": 201, "y": 1228, "w": 63, "h": 60, "ox": 31, "oy": 53, "e": 0.2255}, "yy_cordon": {"x": 983, "y": 911, "w": 138, "h": 110, "ox": 69, "oy": 103, "e": 0.2087}, "yy_diente_leon": {"x": 985, "y": 1228, "w": 40, "h": 50, "ox": 20, "oy": 43, "e": 0.2255}, "yy_diente_leon_b": {"x": 420, "y": 1228, "w": 47, "h": 59, "ox": 23, "oy": 52, "e": 0.2255}, "yy_gramilla": {"x": 1104, "y": 1228, "w": 73, "h": 48, "ox": 36, "oy": 41, "e": 0.2255}, "yy_grieta": {"x": 658, "y": 1228, "w": 114, "h": 51, "ox": 57, "oy": 38, "e": 0.111}, "yy_llanten": {"x": 266, "y": 1228, "w": 65, "h": 60, "ox": 32, "oy": 53, "e": 0.2255}, "yy_mostacilla": {"x": 284, "y": 1031, "w": 68, "h": 99, "ox": 34, "oy": 92, "e": 0.2255}, "yy_mostacilla_b": {"x": 1896, "y": 1031, "w": 58, "h": 91, "ox": 29, "oy": 84, "e": 0.2255}, "yy_musgo": {"x": 1223, "y": 1228, "w": 74, "h": 43, "ox": 37, "oy": 36, "e": 0.2255}, "yy_ortiga": {"x": 469, "y": 1228, "w": 59, "h": 59, "ox": 29, "oy": 52, "e": 0.2255}, "yy_ortiga_b": {"x": 530, "y": 1228, "w": 42, "h": 59, "ox": 21, "oy": 52, "e": 0.2255}, "yy_ortiga_c": {"x": 961, "y": 1135, "w": 45, "h": 80, "ox": 22, "oy": 73, "e": 0.2255}, "yy_pasto_seco": {"x": 1179, "y": 1228, "w": 42, "h": 45, "ox": 21, "oy": 38, "e": 0.2255}, "yy_seco_alto": {"x": 1092, "y": 1031, "w": 84, "h": 94, "ox": 42, "oy": 87, "e": 0.2255}, "yy_seco_alto_b": {"x": 1906, "y": 911, "w": 63, "h": 103, "ox": 31, "oy": 96, "e": 0.2255}, "yy_trebol": {"x": 1299, "y": 1228, "w": 62, "h": 41, "ox": 31, "oy": 34, "e": 0.2255}}};
